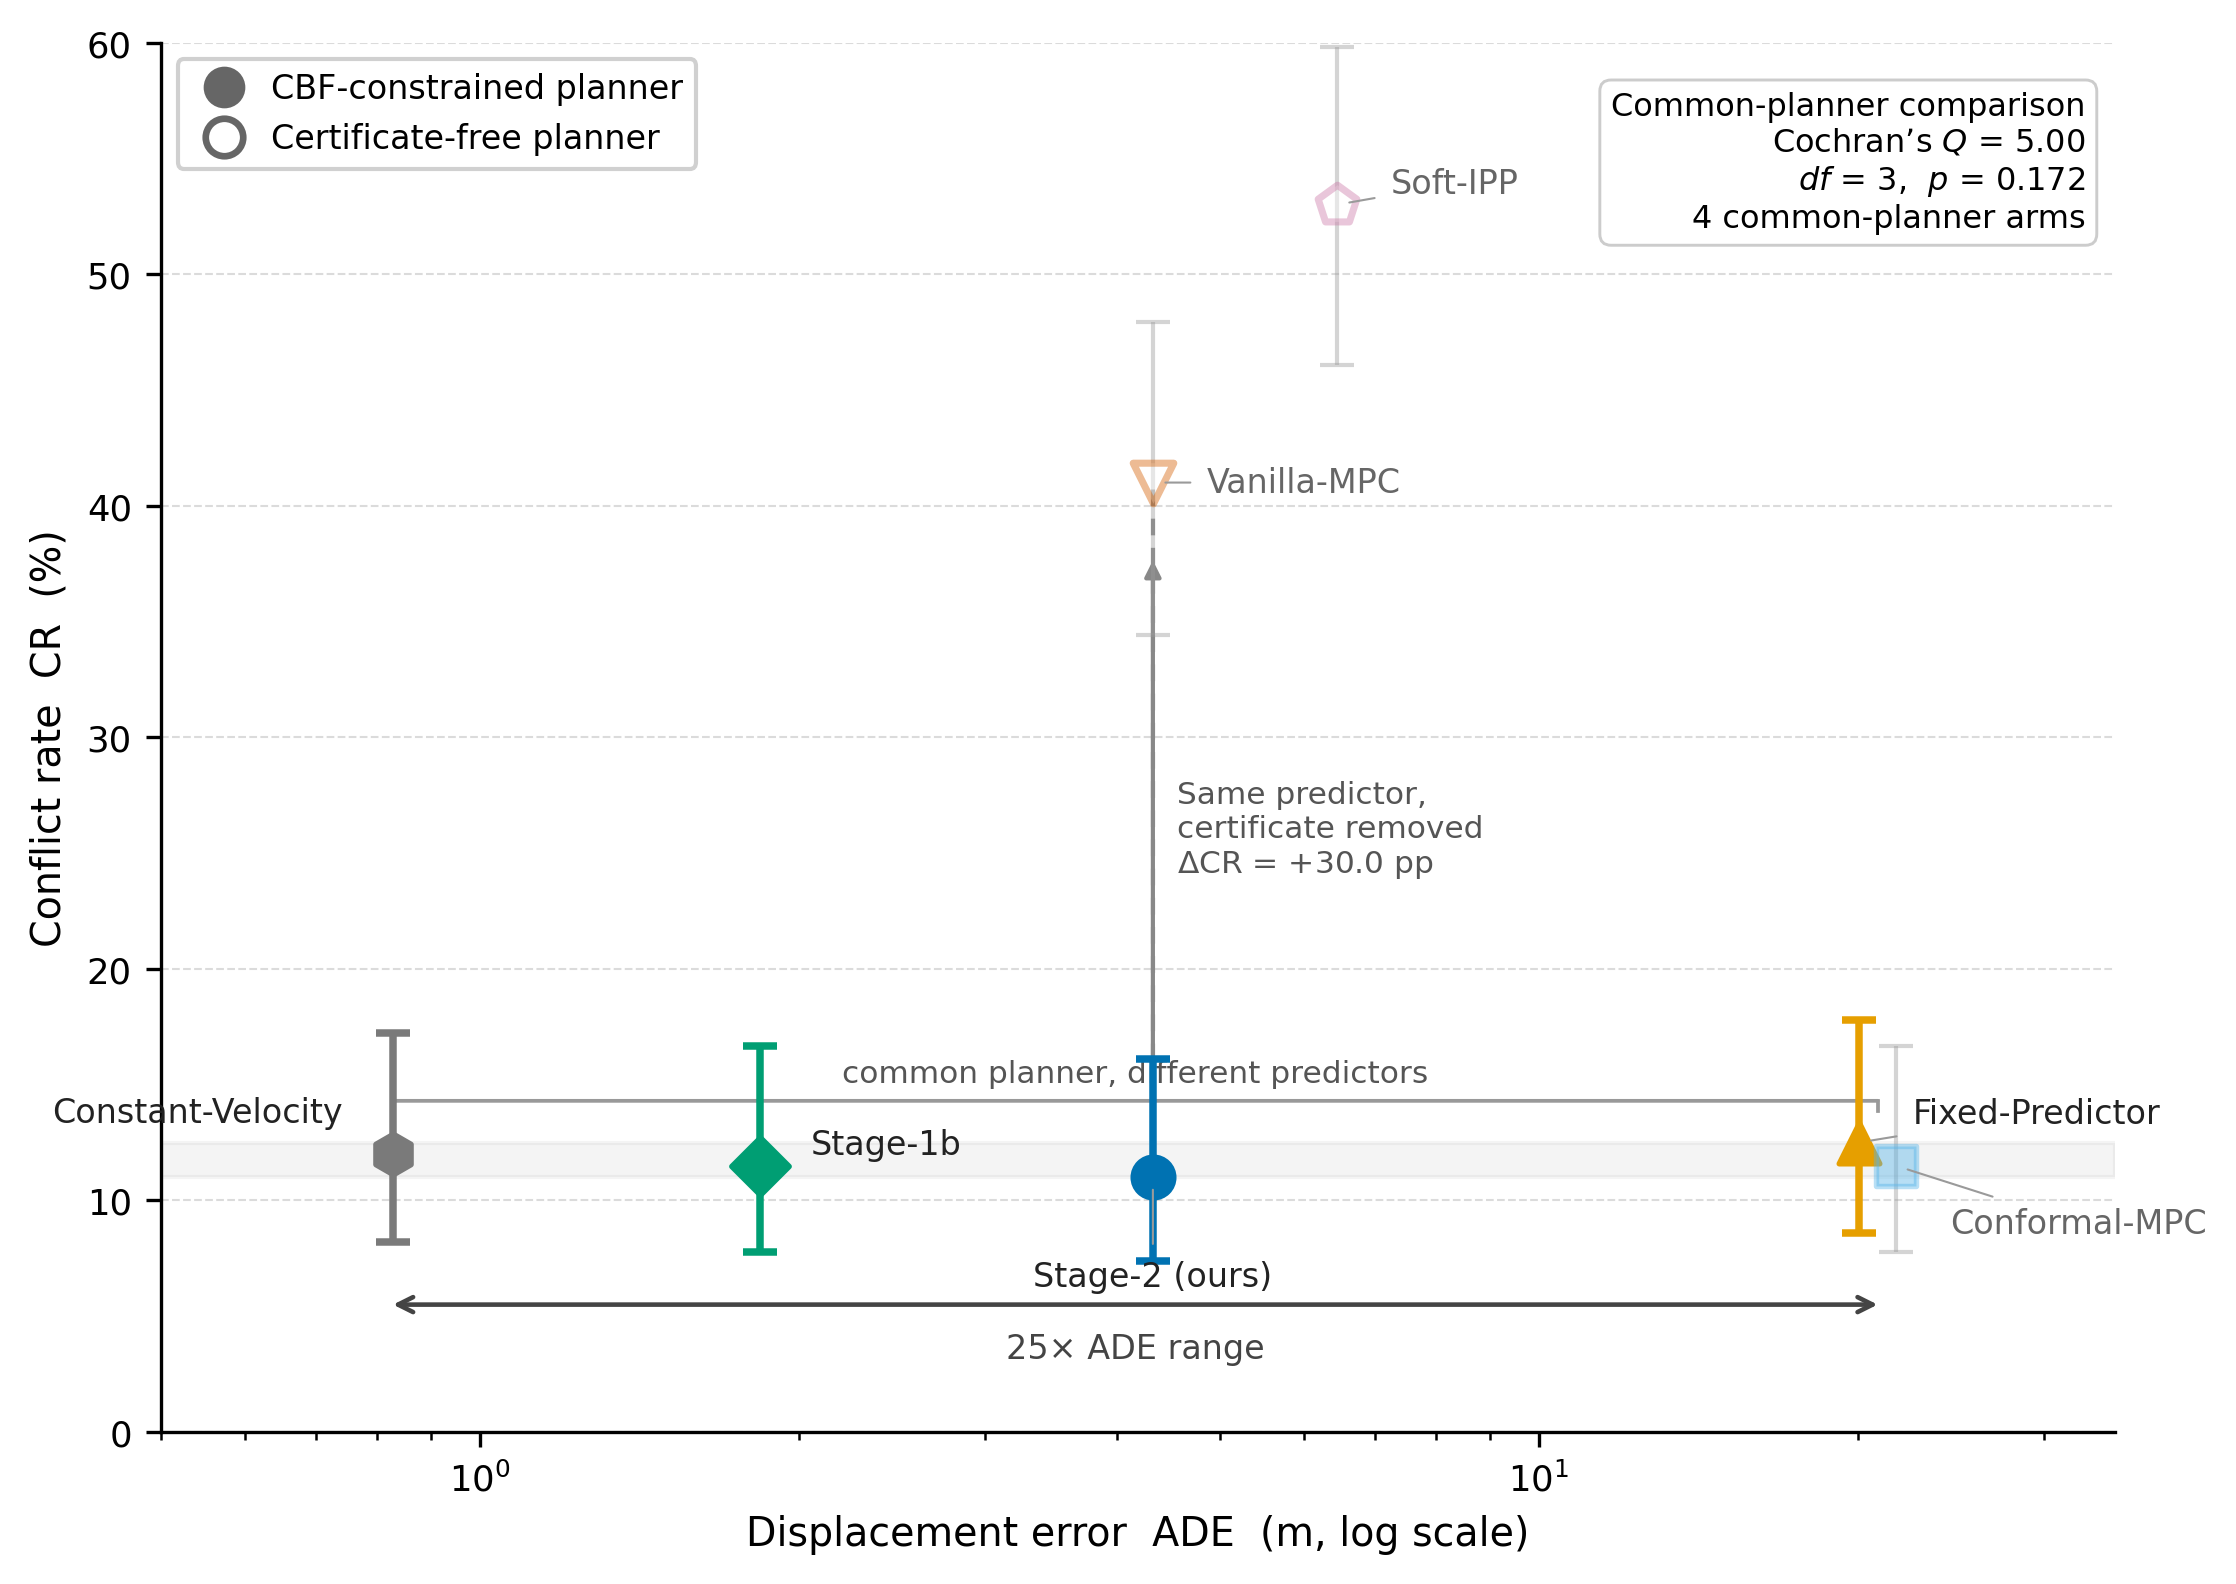
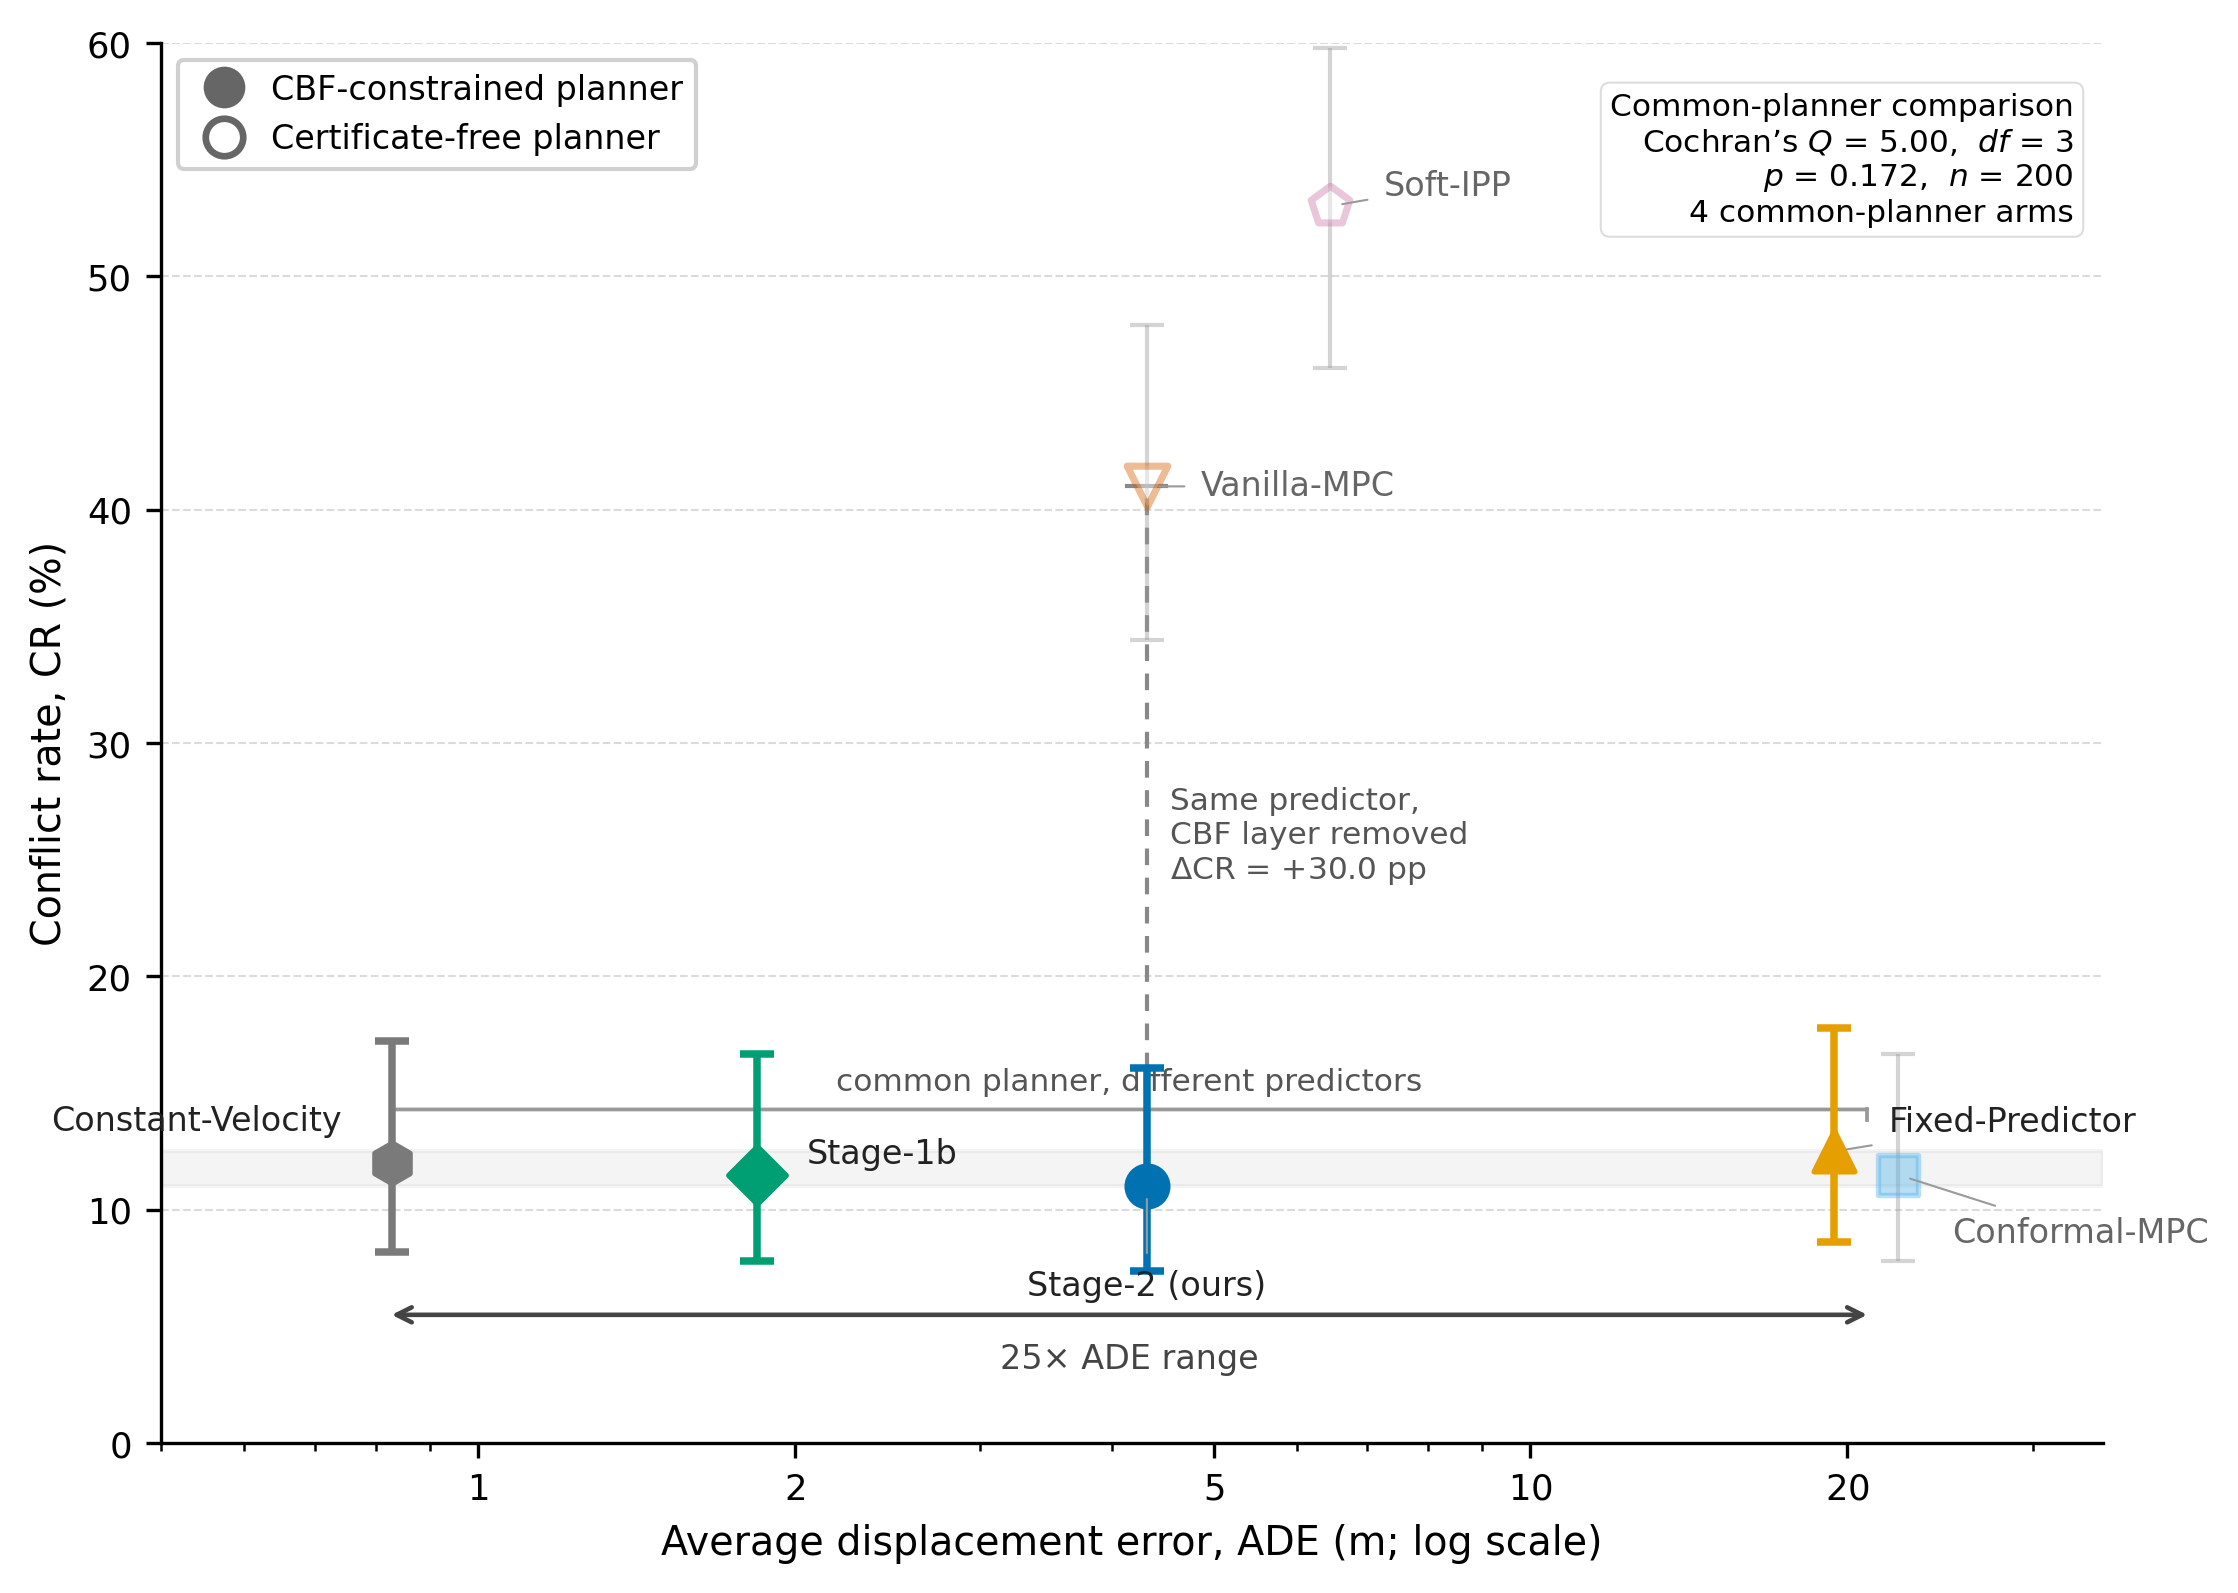
Refine Fig 1 per two-reviewer feedback
- x-axis ticks: 1,2,5,10,20 (readable positions, not 10^0/10^1)
- axis labels: 'Average displacement error, ADE (m; log scale)' /
  'Conflict rate, CR (%)'
- vertical contrast: 'certificate removed' -> 'CBF layer removed';
  arrow -> bracket with end ticks (difference, not flow)
- Fixed/Conformal jitter 4% -> 7% (x0.93/x1.07) for clearer separation
- Cochran box: 4 lines -> 3 lines, lighter border #DDDDDD, pad 0.30
- common-planner bracket keeps end ticks (already present)

diff --git a/figure_plotting_v1/fig01_ade_cr_decoupling.py b/figure_plotting_v1/fig01_ade_cr_decoupling.py
@@ -19,7 +19,6 @@ import matplotlib
 matplotlib.use("Agg")
 import matplotlib.pyplot as plt
 from matplotlib.lines import Line2D
-from matplotlib.patches import FancyArrowPatch
 
 plt.rcParams.update({
     "font.family": "DejaVu Sans",
@@ -58,8 +57,8 @@ def wilson_ci(k, n=N, z=1.959963984540054):
     return (center - half) * 100.0, (center + half) * 100.0
 
 
-# apply 4% display jitter to the two ADE=20.90 arms (for visibility only)
-ADE_JITTER = {"Fixed-Predictor": 0.96, "Conformal-MPC": 1.04}
+# apply ~7% display jitter to the two ADE=20.90 arms (for visibility only)
+ADE_JITTER = {"Fixed-Predictor": 0.93, "Conformal-MPC": 1.07}
 
 fig, ax = plt.subplots(figsize=(7.6, 5.4))
 
@@ -67,13 +66,14 @@ fig, ax = plt.subplots(figsize=(7.6, 5.4))
 ax.axhspan(11.0, 12.5, xmin=0.0, xmax=1.0, color="#BBBBBB", alpha=0.16, zorder=0)
 
 # ---------- vertical matched contrast Stage-2 -> Vanilla -------------
+# bracket (two-end ticks) instead of arrow: it is a difference, not a flow
 ax.plot([4.3212, 4.3212], [11.0, 41.0], linestyle=(0, (4, 3)),
         color="#888888", linewidth=1.0, zorder=1.6)
-arr = FancyArrowPatch((4.3212, 14.0), (4.3212, 38.0),
-                      arrowstyle="-|>", mutation_scale=8,
-                      color="#888888", linewidth=1.0, zorder=1.7)
-ax.add_patch(arr)
-ax.text(4.55, 26.0, "Same predictor,\ncertificate removed\n$\\Delta$CR = +30.0 pp",
+ax.plot([4.3212 - 0.18, 4.3212 + 0.18], [11.0, 11.0], color="#888888",
+        linewidth=1.0, zorder=1.7)
+ax.plot([4.3212 - 0.18, 4.3212 + 0.18], [41.0, 41.0], color="#888888",
+        linewidth=1.0, zorder=1.7)
+ax.text(4.55, 26.0, "Same predictor,\nCBF layer removed\n$\\Delta$CR = +30.0 pp",
         ha="left", va="center", fontsize=7.5, color="#555555", zorder=2)
 
 # ---------- common-planner bracket above the cluster ------------------
@@ -136,12 +136,12 @@ for (label, ade, cr, k, col, mk, group, cert) in ARMS:
                 textcoords="offset points", ha=cfg["ha"], va=cfg["va"],
                 fontsize=8, color=tcol, arrowprops=ap, zorder=6)
 
-# ---------- Cochran corner box (right) -------------------------------
+# ---------- Cochran corner box (right, lightweight) -------------------
 ax.text(0.985, 0.965,
-        "Common-planner comparison\nCochran\u2019s $Q$ = 5.00\n"
-        "$df$ = 3,  $p$ = 0.172\n4 common-planner arms",
-        transform=ax.transAxes, ha="right", va="top", fontsize=7.7,
-        bbox=dict(boxstyle="round,pad=0.35", fc="white", ec="#CCCCCC", lw=0.7),
+        "Common-planner comparison\nCochran\u2019s $Q$ = 5.00,  $df$ = 3\n"
+        "$p$ = 0.172,  $n$ = 200\n4 common-planner arms",
+        transform=ax.transAxes, ha="right", va="top", fontsize=7.5,
+        bbox=dict(boxstyle="round,pad=0.30", fc="white", ec="#DDDDDD", lw=0.5),
         zorder=7)
 
 # ---------- encoding legend (left, two rows only) --------------------
@@ -160,8 +160,10 @@ ax.legend(handles=leg_handles, loc="upper left", frameon=True,
 ax.set_xscale("log")
 ax.set_xlim(0.5, 35)
 ax.set_ylim(0, 60)
-ax.set_xlabel("Displacement error  ADE  (m, log scale)")
-ax.set_ylabel("Conflict rate  CR  (%)")
+ax.set_xticks([1, 2, 5, 10, 20])
+ax.set_xticklabels([r"$1$", r"$2$", r"$5$", r"$10$", r"$20$"])
+ax.set_xlabel("Average displacement error, ADE (m; log scale)")
+ax.set_ylabel("Conflict rate, CR (%)")
 ax.grid(axis="y", linestyle="--", linewidth=0.5, color="#CCCCCC",
         alpha=0.7, zorder=0)
 ax.set_axisbelow(True)
